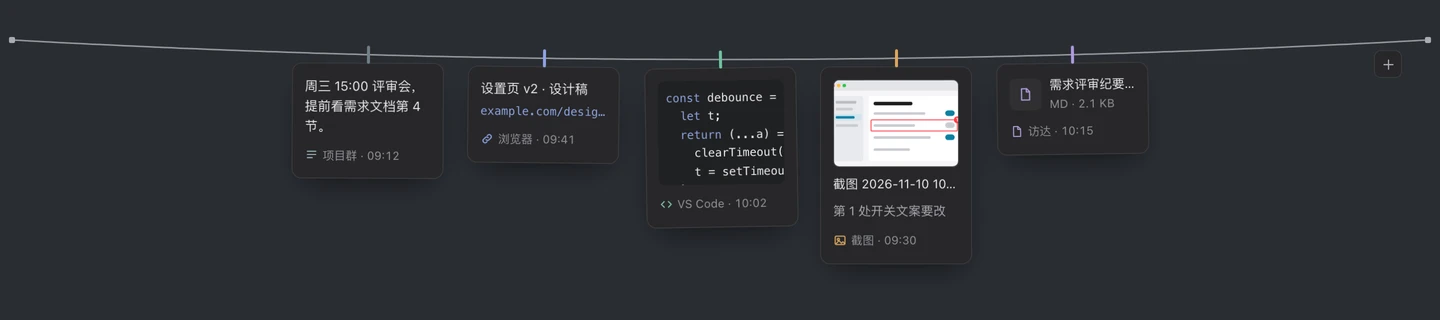
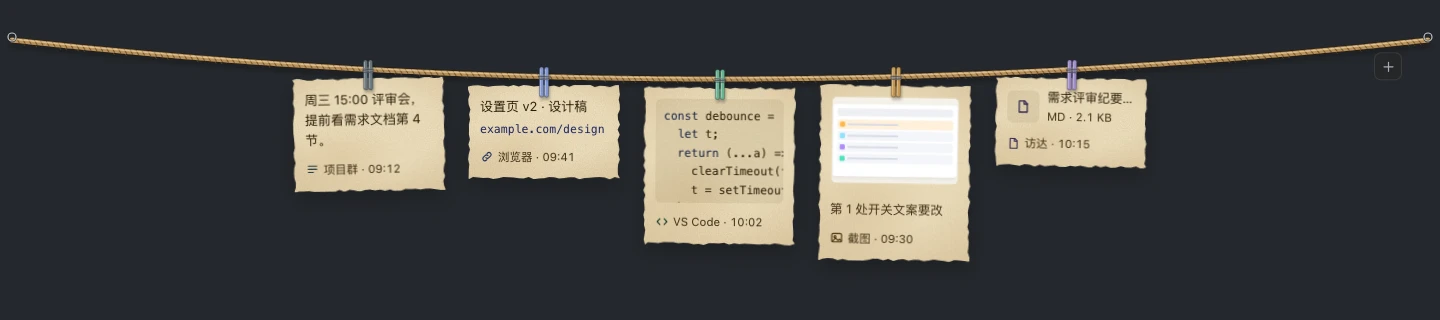
文档：Pro 里可以换晾衣绳样式，说明图换成新默认样式

Changed region(s): [[0.0, 0.0938, 1.0, 0.8125]]

diff --git a/docs/使用说明.md b/docs/使用说明.md
@@ -292,7 +292,7 @@ macOS 第一次截图前要授予“屏幕录制”权限（系统设置 → 隐
 
 **试用与授权码**：试用期间绳尾的挂钩下方写着“试用剩 N 天”。试用结束后不能再挂新便签、写新便签，提示里点“输入授权码”打开设置的“Pro”标签；已经挂着的便签照常能看、改、复制、摘下。收到授权码后粘贴到“Pro”标签里即可，授权码在本机验证，不联网。授权覆盖购买时的大版本（如 1.x），这个大版本里的所有更新都能用；升级到新的大版本需要重新购买。
 
-开了系统的“减少动态效果”时，绳子的放下和收起改成淡入淡出，便签不摆动。快捷键可以在设置“Pro”里改，清空就是不启用。便签只存在本机。
+开了系统的“减少动态效果”时，绳子的放下和收起改成淡入淡出，便签不摆动。快捷键可以在设置“Pro”里改，清空就是不启用。设置“Pro”里还可以换晾衣绳的绳子、夹子和便签纸。便签只存在本机。
 
 ### 精简模式
 

diff --git a/docs/验收记录.md b/docs/验收记录.md
@@ -1245,4 +1245,5 @@ macOS 27.2（arm64），2026-11-01，分支 `fix/long-shot-lost`。规格 v0.1.4
 - [ ] 试用中、试用结束、已授权三种状态下的绳子与设置“Pro”标签；输入有效、无效、已停用、大版本不符的授权码时的提示
 - [ ] 亮色、暗色下绳子、便签、提示条的外观（含全屏应用里的菜单栏表现）
 - [ ] 提醒到点（含系统通知、错过后启动补提醒）：到点绳子放下、便签高亮、不抢键盘，10 s 没人碰收起；多条同时到期合并成一条通知；退出应用错过提醒后再打开立即补提醒；“10 分钟后再提醒”
+- [ ] 晾衣绳样式：真实 WKWebView 里九种纸的纹理和各种边缘（毛边、撕痕、邮票齿、锯齿）的样子，暖光灯串的绳子；设置“Pro”标签里的迷你预览在亮色下盖着真实面板材质时的观感；试用结束后选择器锁住、激活后恢复
 
